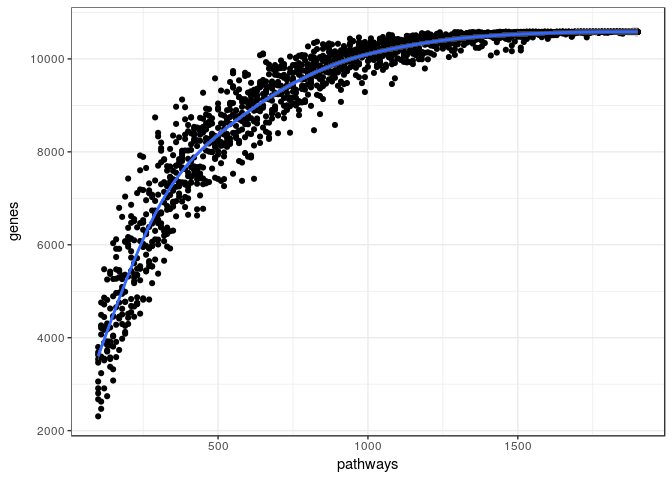
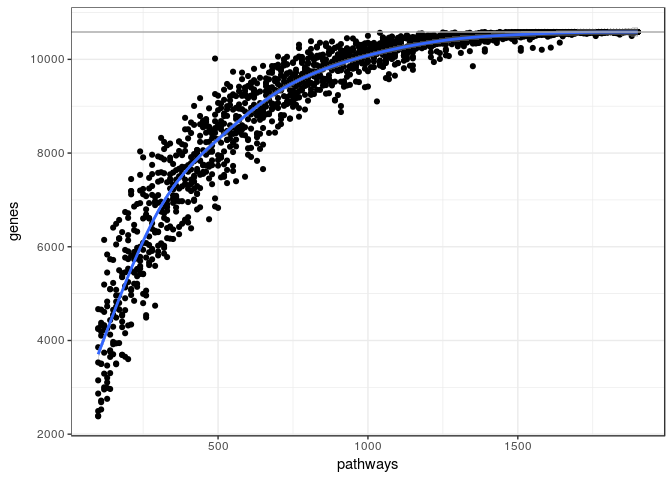
Update README

diff --git a/README.md b/README.md
@@ -47,13 +47,13 @@ gss
 ##     geneIdType: SymbolIdentifier (1 total)
 ##     collectionType: BroadCollection (1 total)
 summary(gss)
-## Genes: 215 
-##  Gene in more pathways: 1 pathways
-##  h-index: 0 genes with at least 0 pathways.
-## Pathways: 2 
-##  Biggest pathway: 129 genes
-##  h-index: 1 pathways with at least 1 genes.
-## All genes in a single gene set.
+## Genes: 215
+##  Gene in more pathways:1pathways
+##  h-index:0genes with at least0pathways.
+## Pathways:2
+##  Biggest pathway:129genes
+##  h-index:1pathways with at least1genes.
+##  All genes in a single gene set.
 ## Some gene set have all genes not present in other gene sets
 ```
 
@@ -68,7 +68,7 @@ genesReact <- as.list(reactomeEXTID2PATHID)
 human <- sapply(genesReact, function(x){all(grepl(pattern = "R-HSA-", x))})
 genesReact <- genesReact[human]
 genesReact <- as.GeneSetCollection(genesReact)
-## Warning in check_size(object): !Removing 203 genes sets with only one gene.
+## Warning in check_size(object): Removing 203 genes sets with only one gene.
 barplot(table(genesPerPathway(genesReact)), main = "Genes per pathway")
 ```
 
@@ -84,24 +84,51 @@ barplot(table(pathwaysPerGene(genesReact)), main = "Pathways per gene")
 
 ``` r
 nPaths <- nPathways(genesReact)
-seqs <- seq(from = 100, to = 1900, by = 10)
+seqs <- seq(from = 100, to = signif(nPaths, 2), by = 10)
 
 o <- sapply(rep(seqs, each = 10), function(x){
-    c("pathways" = x, 
-      # Randomly select some x pathways
-      # check the properties
-      # calculate the number of genes of these GeneSetCollection
-      "genes" = nGenes(check(genesReact[sample(seq_len(nPaths), x)]))) 
-  })
+  c("pathways" = x, 
+    # Randomly select some x pathways
+    # check the properties
+    # calculate the number of genes of these GeneSetCollection
+    "genes" = nGenes(check(genesReact[sample(seq_len(nPaths), x)])))
+})
 out <- as.data.frame(t(o))
 library("ggplot2")
 ggplot(out, aes(pathways, genes)) + 
   geom_point() + 
   geom_smooth() + 
-  theme_bw()
+  theme_bw() +
+  geom_hline(yintercept = nGenes(genesReact), col = "darkgrey")
 ```
 
 ![](man/figures/README-unnamed-chunk-5-1.png)
+
+We can do the same for the number of genes
+
+``` r
+nGenes <- nGenes(genesReact)
+seqs <- seq(from = 100, to = signif(nGenes, 3)-100, by = 100)
+paths2genes <- geneIds(genesReact)
+genes2paths <- GSEAdv:::inverseList(paths2genes)
+o <- sapply(rep(seqs, each = 10), function(x){
+  paths2genes <- GSEAdv:::inverseList(genes2paths[sample(seq_along(genes2paths), x)])
+  
+  c("genes" = x, 
+    # Randomly select some x genes
+    # check the properties
+    # calculate the number of pathways of these GeneSetCollection
+    "paths" = sum(lengths(paths2genes) >= 2)) 
+})
+out <- as.data.frame(t(o))
+ggplot(out, aes(genes, paths)) + 
+  geom_point() + 
+  geom_smooth() + 
+  theme_bw()  +
+  geom_hline(yintercept = nPathways(genesReact), col = "darkgrey")
+```
+
+![](man/figures/README-unnamed-chunk-6-1.png)
 
 Who will use this repo or project?
 ==================================
